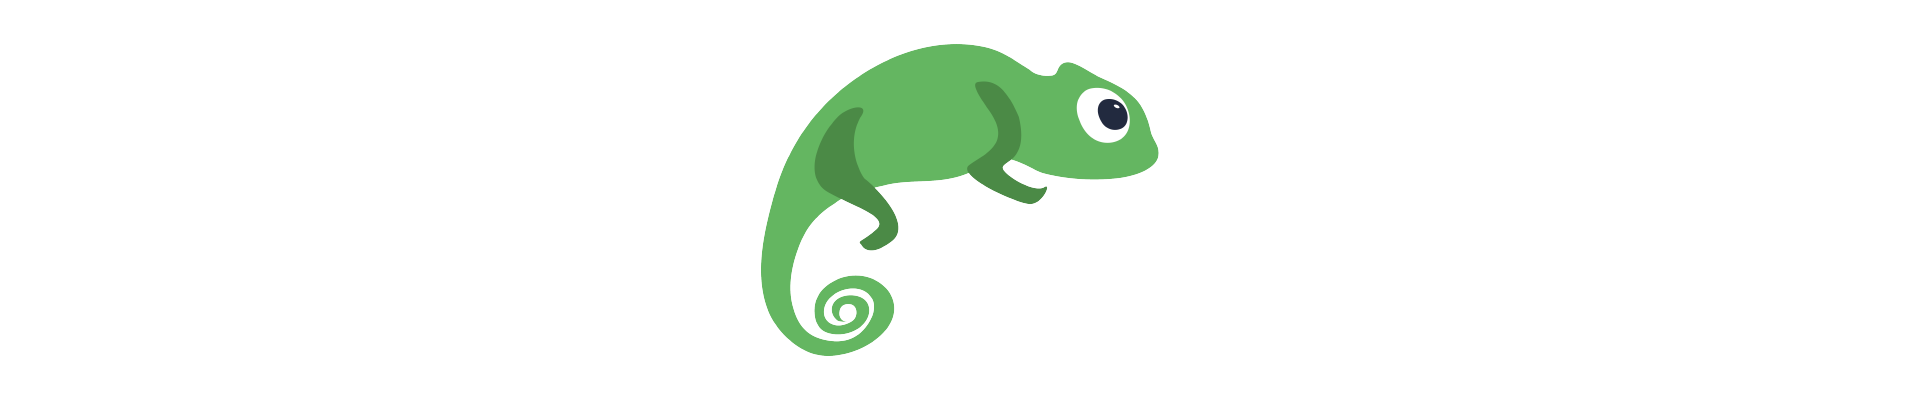
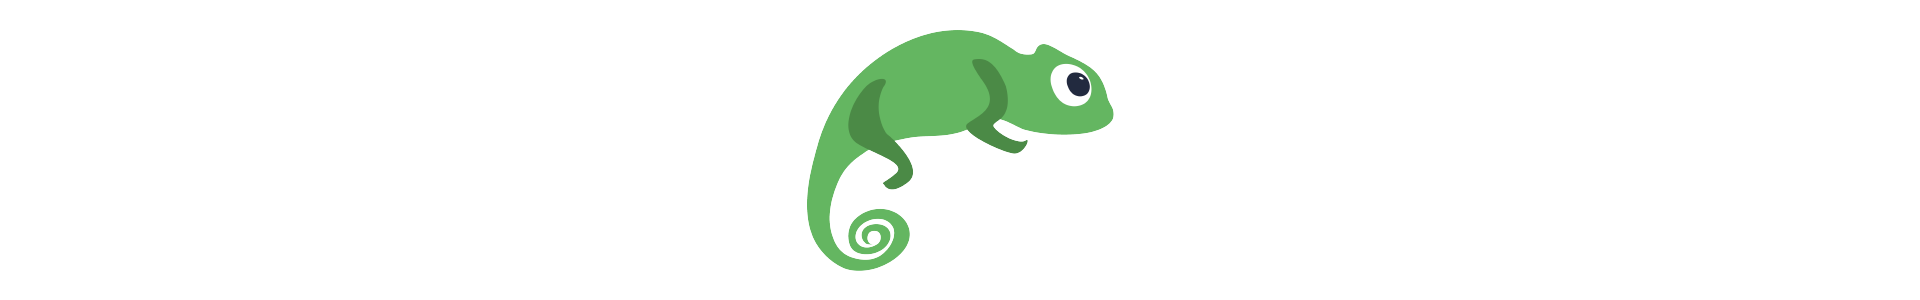
Add files via upload

Changed region(s): [[0.375, 0.15, 0.625, 0.9], [0.4688, 0.09, 0.5312, 0.12]]

diff --git a/css/style.css b/css/style.css
@@ -118,11 +118,11 @@ header img{
 
 
 #hero{
-	background-image: url("../img/banner camaleon morado-04.png");
+	background-image: url("../img/banner camaleones-04.png");
 	background-position: top center;
 	background-size: cover;
 	padding: 10% 0;
-	color:var(--color-morado);
+	color:var(--color-verde);
 	height: 200px;
 }
 
@@ -131,15 +131,23 @@ header img{
 	background-position: center;
 	background-size: cover;
 	padding: 10% 0;
-	color:var(--color-morado);
+	color:var(--color-verde);
+}
+
+#hero3{
+	background-image: url("../img/banner morado camaleon verde-05.png");
+	background-position: center;
+	background-size: cover;
+	padding: 10% 0;
+	color:var(--color-verde);
 }
 
 #hero h1,
 #hero-slides h1{
 	font-size: 50px;
 	margin-bottom: 20px;
-	font-weight: 300;
-	color:var(--color-morado);
+	font-weight: 600;
+	color:var(--color-verde);
 }
 #hero h3,
 #hero-slides h3{

diff --git a/index.html b/index.html
@@ -83,7 +83,7 @@
 		  <div class="carousel-inner">
 			
 		  	<div class="carousel-item active">
-			  <img src="img/full-1.jpg" class="d-block w-100" alt="...">
+			  <img src="img/full-2.jpg" class="d-block w-100" alt="...">
 			  <div class="carousel-caption  d-md-block">
 				<h1>Punto Ciego Branding</h1>
 				<h3>Lorem ipsum dolor sit amet, consectetur adipisicing elit. Doloremque, quia.</h3>
@@ -238,7 +238,7 @@
 						</div>
 					
 						<div class="mb-3">
-							<textarea name="mensaje" id="mensaje" class="form-control" rows="5" placeholder="Mensaje" required></textarea>
+							<textarea name="mensaje" id="mensaje" class="form-control" rows="6" placeholder="Mensaje" required></textarea>
 						</div>
 						
 						<div class="mb-3">

diff --git a/contacto.html b/contacto.html
@@ -103,7 +103,7 @@
 						</div>
 					
 						<div class="mb-3">
-							<textarea name="mensaje" id="mensaje" class="form-control" rows="10" placeholder="Mensaje" required></textarea>
+							<textarea name="mensaje" id="mensaje" class="form-control" rows="6" placeholder="Mensaje" required></textarea>
 						</div>
 						
 						<div class="mb-3">
@@ -116,6 +116,9 @@
 			</div>
 		</div>			
 					
+	</section>
+	
+	<section id="hero3">		
 	</section>
 	
 	<footer>
